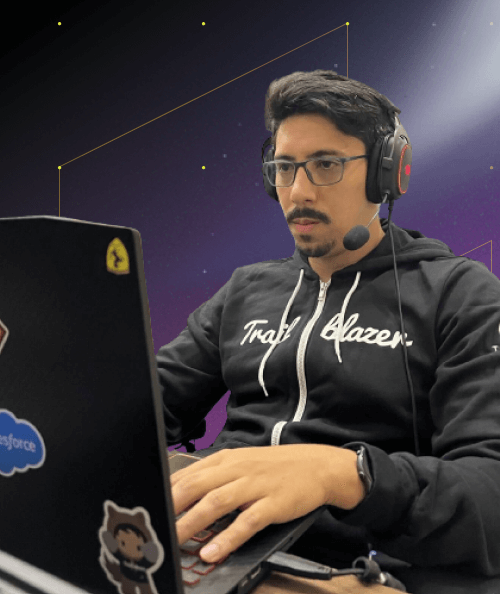
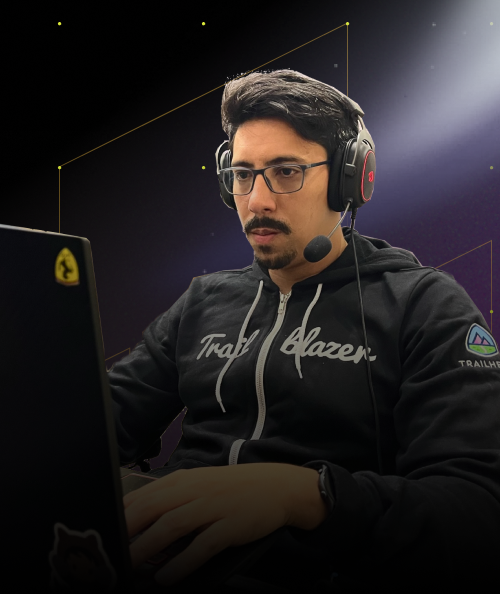
fix: new image about

diff --git a/src/components/sectionAboutMe.jsx b/src/components/sectionAboutMe.jsx
@@ -1,5 +1,5 @@
 import Image from "next/image";
-import imageAbout from "../assets/Image.png";
+import imageAbout from "../assets/wagner.webp";
 import imageAvatar from "../assets/avatar-mini.jpg";
 import imageRanger from "../assets/ranger.png";
 import { RiInstagramLine } from "react-icons/ri";
